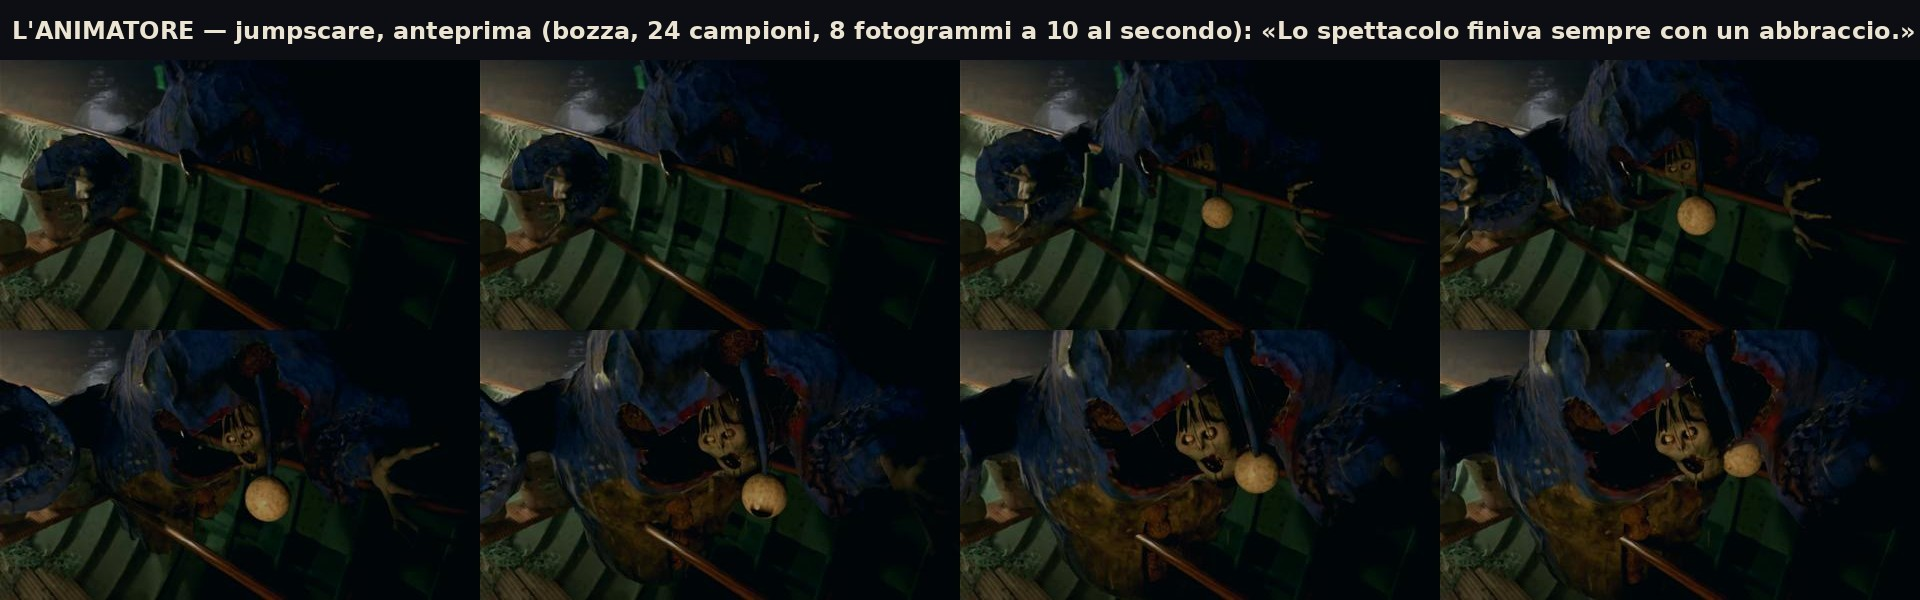
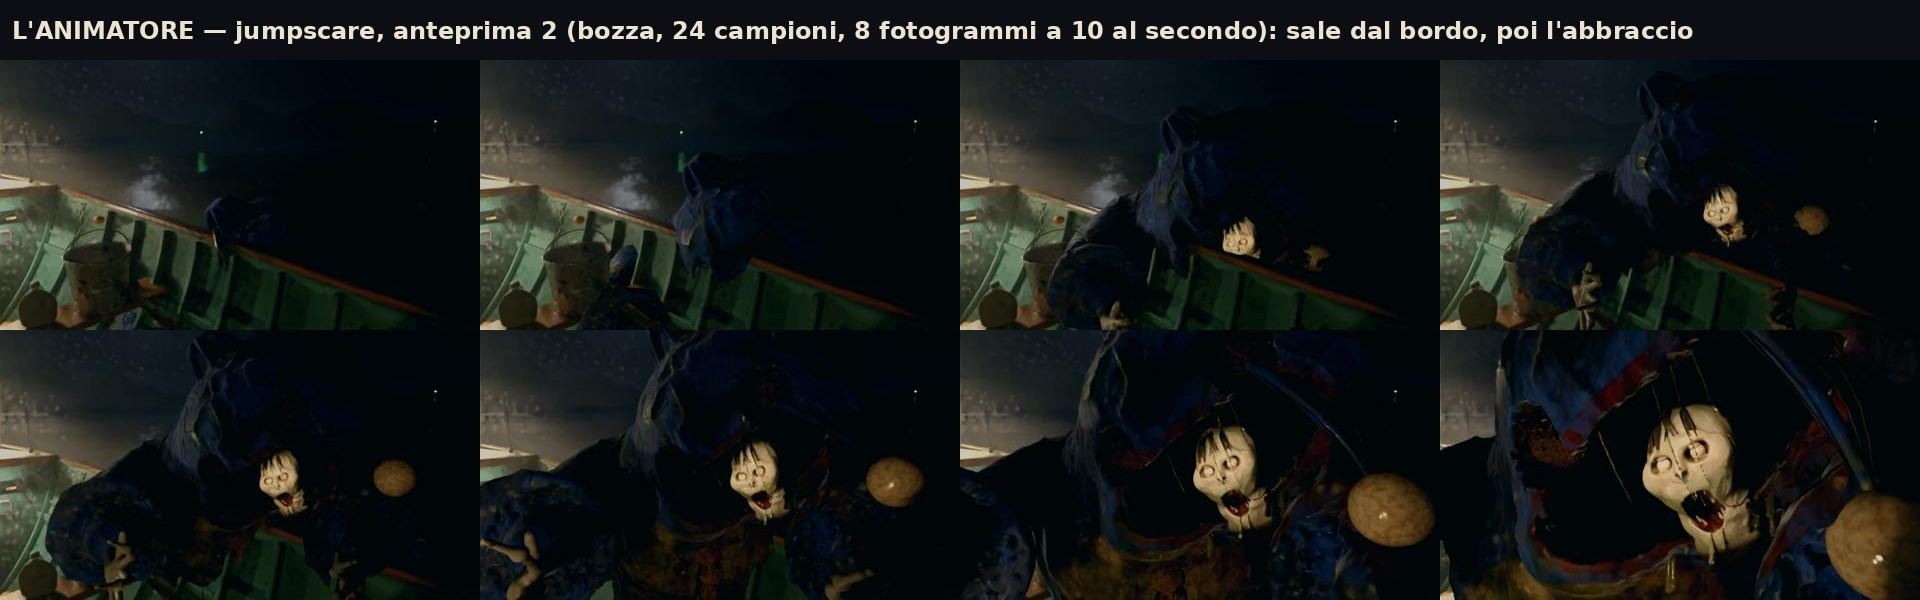
L'animatore: anteprima 2 del jumpscare con le correzioni: la camera guarda il bordo a prua sulla dritta e lui sale da sotto il capodibanda contro la foschia (percorso su misura, PATH), poi ti viene addosso con la faccia al centro a 0,46 m; luce calda solo sulla faccia (light linking), il costume res
Claude-Session: https://claude.ai/code/session_019HFfvYRRadjqBhFodrQPYe

diff --git a/tools/render/jumpscare.py b/tools/render/jumpscare.py
@@ -224,23 +224,45 @@ FANGY_JS = {'dist': 0.55, 'pitch': 6.0}
 
 def foxy_attack():
     import animatore as an
-    # l'animatore (dalla notte 2): l'hai trascurato e dal relitto è venuto fino alla barca. Sale dall'acqua sul bordo
-    # di prua a dritta (fuori dallo scafo: a un metro avanti la barca è larga 0,9), dalla parte del relitto, e ti abbraccia: le braccia avanti, le mani ossute aperte che ti
-    # arrivano ai lati della faccia, la sua faccia fuori dalla bocca del costume, l'occhio da cartone che dondola.
-    # «Lo spettacolo finiva sempre con un abbraccio.»
+    # l'animatore (dalla notte 2): l'hai trascurato e dal relitto è venuto fino alla barca. La camera guarda il bordo a
+    # prua sulla dritta, appena in basso, col mare e la foschia chiara dietro: lui sale da sotto il capodibanda (la
+    # sagoma si stacca contro la foschia), poi ti viene addosso e ti abbraccia. Alla fine la sua faccia, fuori dalla
+    # bocca del costume, riempie il quadro a mezzo metro; le mani ossute entrano dai lati e dal basso con le dita aperte
+    # vicine all'obiettivo; l'occhio da cartone dondola di lato. «Lo spettacolo finiva sempre con un abbraccio.»
     before = set(bpy.data.objects)
     _, face = an.build('abbraccio', occhio=0.0)
     obs = [o for o in bpy.data.objects if o not in before]
     bpy.context.view_layer.update()
+    J = FOXY_JS
     eye = Vector(EYE)
-    a = math.radians(FOXY_JS['yaw'])
-    pos = eye + Vector((math.sin(a), math.cos(a), 0.0)) * FOXY_JS['parte']
-    pos.z = FOXY_JS['z']
+    a = math.radians(J['yaw'])
+    hor = Vector((math.sin(a), math.cos(a), 0.0))
+    pos = eye + hor * J['parte']
+    pos.z = J['z']
     t = eye - pos
-    yaw = math.atan2(t.x, -t.y)
-    M0 = Matrix.Translation(pos) @ Matrix.Rotation(yaw, 4, 'Z')
-    # l'occhio che dondola: si ruotano i vertici dell'occhio, del brandello e dei suoi fili attorno al punto in cui il
-    # brandello esce dall'orbita (nelle coordinate della creatura, prima di metterla in scena)
+    M0 = Matrix.Translation(pos) @ Matrix.Rotation(math.atan2(t.x, -t.y), 4, 'Z')
+    # la camera: verso il bordo, appena in basso
+    aim = eye + hor * J['mira_dist']
+    aim.z = J['mira_z']
+    d = cam_dir(aim)
+    face_l = Vector(tuple(map(float, face)))
+    # a metà: è salito sul bordo, dove stava (la faccia sopra il capodibanda)
+    Mmid = Matrix.Translation((0.0, 0.0, J['sale'])) @ Matrix.Translation(-hor * J['avanza']) @ M0
+    # alla fine: la faccia sulla linea della camera, a J['dist'] metri, girata verso di te e un po' all'indietro
+    yaw1 = math.atan2(-d.x, d.y)
+    R1 = Matrix.Rotation(yaw1, 4, 'Z') @ Matrix.Rotation(math.radians(J['indietro']), 4, 'X')
+    M1 = Matrix.Translation(eye + d * J['dist']) @ R1 @ Matrix.Translation(-face_l)
+
+    def path(u):
+        u = J['parte_da'] + (1 - J['parte_da']) * u
+        k = J['meta']
+        if u < k:
+            return _lerp_matrix(M0, Mmid, (u / k) ** 0.9)
+        w = (u - k) / (1 - k)
+        return _lerp_matrix(Mmid, M1, w * w * (3 - 2 * w) * 0.35 + w ** 1.6 * 0.65)
+    PATH['foxy'] = path
+    # l'occhio che dondola, di lato: si ruotano i vertici dell'occhio, del brandello e dei suoi fili attorno al punto in
+    # cui il brandello esce dall'orbita (nelle coordinate della creatura, prima di metterla in scena)
     swing = [o for o in obs if o.name.startswith(('ToonEyeHang', 'EyeStrip'))]
     threads = sorted((o for o in obs if o.name.startswith('Threads')), key=lambda o: o.name)
     if threads:
@@ -248,15 +270,33 @@ def foxy_attack():
     strip = next(o for o in obs if o.name.startswith('EyeStrip'))
     top = max((strip.matrix_world @ v.co for v in strip.data.vertices), key=lambda v: v.z)
     local = {o.name: (o.matrix_world.copy(), [v.co.copy() for v in o.data.vertices]) for o in swing}
+    # la luce calda dalla parte della lanterna, solo sulla faccia dell'uomo (gli occhi lattiginosi e i denti bagnati
+    # brillano, il costume resta scuro): si muove con lui, quindi lo illumina uguale in ogni fotogramma
+    faccia = [o for o in obs if o.type == 'MESH' and o.name.startswith(('ManHead', 'ManEye', 'ManTeeth', 'ManDrool', 'ManHair'))]
+    col = bpy.data.collections.new('FoxyFacciaLuce')
+    for o in faccia:
+        col.objects.link(o)
+    to_eye = Vector((0.0, -1.0, 0.25)).normalized()       # la creatura guarda −Y
+    ld = bpy.data.lights.new('FoxyFaccia', 'AREA')
+    ld.energy, ld.color, ld.size = J['luce'], (1.0, 0.62, 0.30), 0.18
+    lo = bpy.data.objects.new('FoxyFaccia', ld)
+    bpy.context.scene.collection.objects.link(lo)
+    # nel sistema della creatura: davanti alla faccia, verso chi guarda e un po' dalla parte della lanterna (che a
+    # metà percorso, girata la creatura, è a sinistra della camera)
+    lp = face_l + to_eye * 0.40 + Vector((-0.22, 0.0, 0.10))
+    lo.location = lp
+    lo.rotation_mode = 'QUATERNION'
+    lo.rotation_quaternion = (face_l - lp).to_track_quat('-Z', 'Y')
+    lo.light_linking.receiver_collection = col
+    lo.lightgroup = 'lantern'
+    obs.append(lo)
+    bpy.context.view_layer.update()
     for o in obs:
         o.matrix_world = M0 @ o.matrix_world
-    face_l = Vector(tuple(map(float, face)))
-    M1 = _toward_eye(M0, face_l, FOXY_JS['dist'], extra_pitch=FOXY_JS['pitch'])
-    aim = M0 @ (face_l + Vector((0.0, 0.0, -0.05)))
 
     def dondola(i):
-        ang = FOXY_JS['occhio'][i]
-        Rw = Matrix.Translation(top) @ (Matrix.Rotation(math.radians(-ang), 4, 'X') @ Matrix.Rotation(math.radians(ang * 0.4), 4, 'Y')) \
+        side, fwd = J['occhio_lato'][i], J['occhio_avanti'][i]
+        Rw = Matrix.Translation(top) @ (Matrix.Rotation(math.radians(-fwd), 4, 'X') @ Matrix.Rotation(math.radians(-side), 4, 'Y')) \
             @ Matrix.Translation(-top)
         for o in swing:
             Mw, cos = local[o.name]
@@ -268,11 +308,15 @@ def foxy_attack():
     return obs, M0, M1, aim
 
 
-# L'animatore: da dove parte (gradi di yaw dall'occhio, metri, quota dei piedi: è in acqua fin quasi al petto), a
-# quanti metri dall'occhio arriva la sua faccia (le mani gli stanno davanti di 30-40 cm: più vicino escono dal quadro),
-# quanto si china, e di quanti gradi dondola l'occhio che penzola a ogni fotogramma (avanti +, indietro −)
-FOXY_JS = {'yaw': 45.0, 'parte': 2.25, 'z': -0.50, 'dist': 0.78, 'pitch': -6.0,
-           'occhio': [0.0, 10.0, 24.0, 32.0, 20.0, -6.0, -28.0, -38.0]}
+# L'animatore. yaw/parte/z: da dove parte (gradi dall'occhio, metri, quota dei piedi: sotto il capodibanda);
+# mira_dist/mira_z: il punto del bordo che guarda la camera; sale/avanza: a metà corsa è salito sul bordo; dist: a quanti
+# metri arriva la sua faccia (sulla linea della camera); indietro: gradi di cui si piega all'indietro alla fine (la
+# faccia, che nel costume pende in giù, ti guarda); parte_da: al fotogramma 0 è già partito; meta: a che punto della
+# corsa è sul bordo; luce: watt della luce sulla faccia; l'occhio dondola di lato (gradi, + in fuori) e un po' avanti
+FOXY_JS = {'yaw': 45.0, 'parte': 2.25, 'z': -1.05, 'mira_dist': 2.6, 'mira_z': 0.95,
+           'sale': 0.80, 'avanza': 0.20, 'dist': 0.46, 'indietro': -14.0, 'parte_da': 0.06, 'meta': 0.42, 'luce': 6.0,
+           'occhio_lato': [25.0, 32.0, 40.0, 46.0, 52.0, 44.0, 30.0, 22.0],
+           'occhio_avanti': [0.0, -6.0, -12.0, -8.0, 4.0, 10.0, 6.0, -4.0]}
 
 ATTACKS = {'gulpy': gulpy_attack, 'molly': molly_attack, 'hatch': hatch_attack, 'robin': robin_attack,
            'archie': archie_attack, 'lampy': lampy_attack, 'fangy': fangy_attack, 'foxy': foxy_attack}
@@ -293,8 +337,9 @@ FILL = {'robin': {'energy': 3.0, 'dist': 0.35},
         # sue lucine
         'fangy': {'energy': 3.0, 'dist': 0.35},
         # l'animatore sale dall'acqua a prua, con la luce di lato: la sua faccia esce dal buio della bocca del costume
-        # (la luce della barca gli sta alle spalle: senza questa resta una massa nera)
-        'foxy': {'energy': 10.0, 'dist': 0.45}}
+        # (la luce della barca gli sta alle spalle; la faccia la illumina una luce sua, vedi foxy_attack: il costume
+        # resta scuro)
+        'foxy': {'energy': 4.0, 'dist': 0.45}}
 
 
 def _fill_light(cfg):
@@ -314,6 +359,18 @@ def _fill_light(cfg):
 
 # ───────────────────────── render ─────────────────────────
 
+def cam_dir(aim):
+    """La direzione della camera del jumpscare verso il punto mirato (non più su di 22°, e un filo più in basso)."""
+    d = (aim - Vector(EYE)).normalized()
+    hor = math.hypot(d.x, d.y)
+    max_up = math.tan(math.radians(22.0)) * hor
+    return Vector((d.x, d.y, min(d.z, max_up) - 0.06)).normalized()
+
+
+# Percorsi su misura (al posto della corsa dritta da M0 a M1 con ease): funzione di u = i/(FRAMES-1) → matrice,
+# preparata dall'attacco (l'animatore prima sale sul bordo, poi ti viene addosso)
+PATH = {}
+
 def _set_creature(obs, base, M0inv, M):
     for o in obs:
         o.matrix_world = M @ M0inv @ base[o.name]
@@ -331,10 +388,7 @@ def run(q, who, post_mod, overlays_path, build_scene, coll_objects, renderable):
     base = {o.name: o.matrix_world.copy() for o in creature}
     M0inv = M0.inverted()
     # la camera guarda la creatura, un po' sotto la testa (come quando alzi gli occhi di scatto)
-    d = (aim - Vector(EYE)).normalized()
-    hor = math.hypot(d.x, d.y)
-    max_up = math.tan(math.radians(22.0)) * hor
-    d = Vector((d.x, d.y, min(d.z, max_up) - 0.06)).normalized()
+    d = cam_dir(aim)
     cam_target = tuple(Vector(EYE) + d * 2.0)
     perspective_camera(EYE, cam_target, lens=22.0, name='JumpCam')
     # la versione da approvare basta più piccola e con meno campioni (ci sono scosse e grana sopra)
@@ -374,10 +428,13 @@ def run(q, who, post_mod, overlays_path, build_scene, coll_objects, renderable):
     bg_lin = sum(bg[g][..., :3] for g in ('ambient', 'lamp', 'lantern') if g in bg)
     frames = []
     for i in range(FRAMES):
-        u = ease(i / (FRAMES - 1))
         if who in SPIN:
             SPIN[who](i)
-        _set_creature(creature, base, M0inv, _lerp_matrix(M0, M1, u))
+        if who in PATH:
+            M = PATH[who](i / (FRAMES - 1))
+        else:
+            M = _lerp_matrix(M0, M1, ease(i / (FRAMES - 1)))
+        _set_creature(creature, base, M0inv, M)
         exr = os.path.join(out_dir, f'{who}_{i:02d}.exr')
         t = time.time()
         render(exr, samples, (W, H), transparent=True, data_passes=('Alpha',))

diff --git a/tools/render/animatore.py b/tools/render/animatore.py
@@ -49,9 +49,9 @@ POSE = {
     'riposo': dict(),
     # le braccia si alzano verso chi guarda, i gomiti in fuori, le mani aperte che vengono avanti per l'abbraccio
     'abbraccio': dict(
-        armR=((0.72, -0.58, 1.10), (0.60, -0.92, 1.16)),
-        armL=((-0.70, -0.52, 1.12), (-0.58, -0.88, 1.20)),
-        hand_dir={1: (-0.45, -1.0, 0.05), -1: (0.45, -1.0, 0.08)},
+        armR=((0.66, -0.58, 1.02), (0.46, -0.94, 0.98)),
+        armL=((-0.64, -0.52, 1.04), (-0.44, -0.90, 1.00)),
+        hand_dir={1: (-0.55, -1.0, 0.10), -1: (0.55, -1.0, 0.12)},
         hand_up={1: (1.0, 0.1, 0.25), -1: (-1.0, 0.1, 0.25)},
         curl=0.38, fin_len=0.20,
     ),
